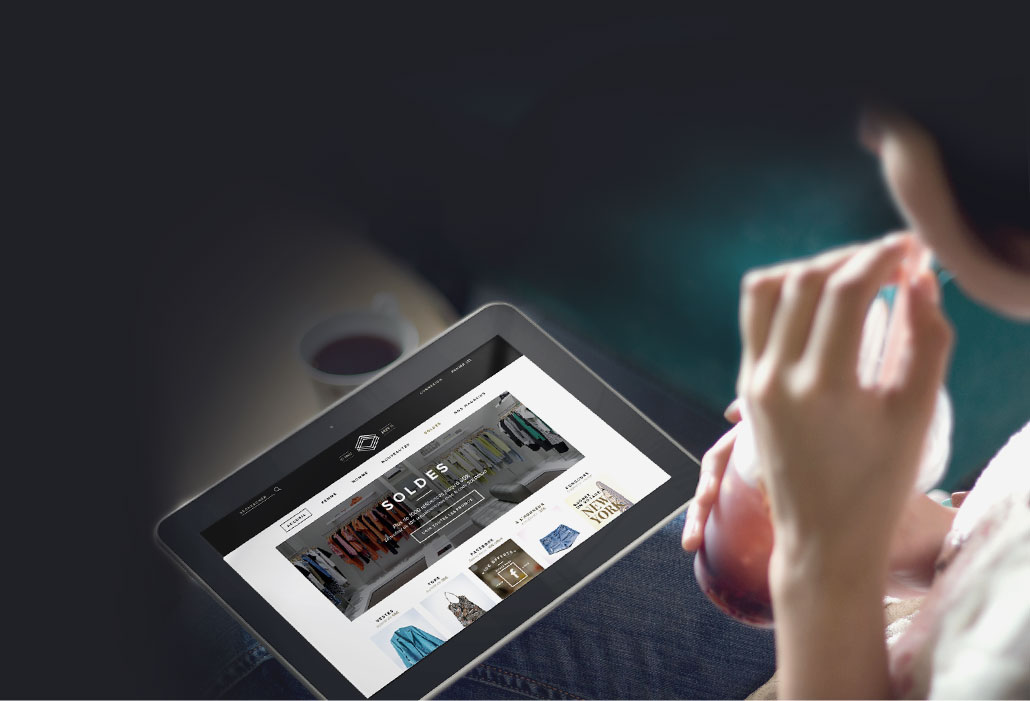
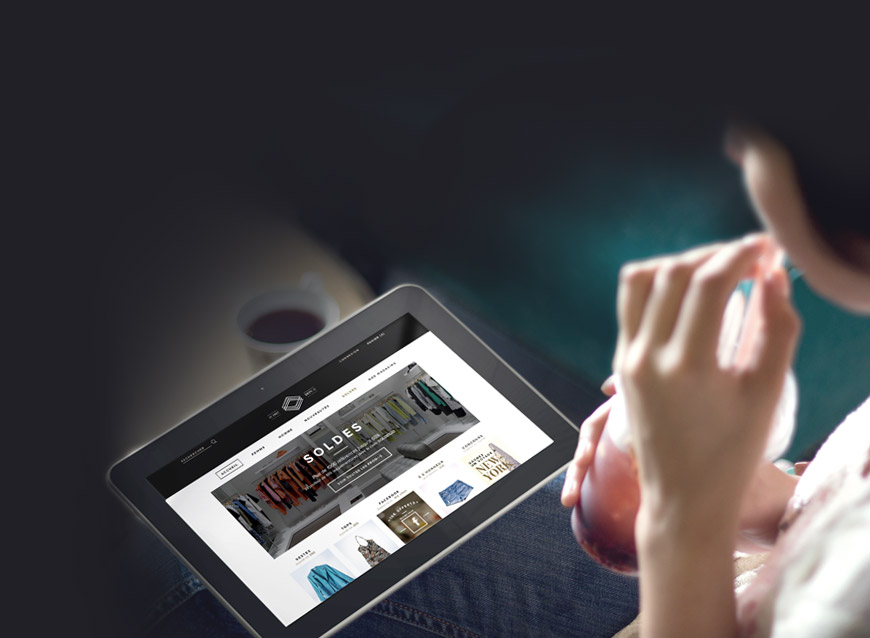
Modifs solution

diff --git a/solution.html b/solution.html
@@ -80,7 +80,7 @@
 
 		<div class="container first content align-center">
 			<h1>Plateforme <nobr>e-commerce</nobr> dédiée aux Retailers</h1>
-			<p><b>Change est une plateforme <nobr>e-commerce</nobr> nativement cross-canal, qui intègre par ailleurs une gestion du merchandising produit souple et intelligente.</b><br/></p>
+			<p><b>Change est une plateforme <nobr>e-commerce</nobr> nativement cross-canal, qui intègre une gestion du merchandising produit et un CMS souple et intelligent.</b><br/></p>
 			<p>Parce que les <b>Retailers</b> seront les grands Leaders du <b>e-commerce</b> de demain, nous voulons vous offrir l’opportunité de vous concentrer exclusivement sur vos métiers, ceux qui ont fait le succès historique de votre marque, plutôt que de perdre du temps sur les projets technologiques.</p>
 			<p>Change vous permet ainsi, et pour la première fois, de capitaliser sur votre réseau de <b>points de vente physiques</b>, ainsi que sur votre <b>merchandising produit</b> et votre contenu de marque, afin d‘en faire vos meilleurs atouts <b>e-commerce</b>.</p>
 		</div>
@@ -106,17 +106,17 @@
 						<li class="icon-reserve-collect"><b class="maj">Reserve &amp; Collect</b> : Service d’e-Réservation permettant de voir la disponibilité d’un produit dans un magasin du réseau, de le réserver en ligne, et enfin, le retirer et le payer en magasin en moins d’une heure.</li>
 						<li class="icon-pay-collect"><b class="maj">Pay &amp; Collect</b> : Service permettant d’acheter un produit en ligne et de le retirer en magasin dans le délai souhaité par le client.</li>
 						<li class="icon-store-locator"><b class="maj">Store Locator</b> : Service permettant de localiser les points de ventes physiques de la marque, notamment ceux les plus proches de l’internaute, et ainsi d’obtenir des informations pratiques (horaires d’ouverture, adresse, numéro de téléphone, etc.) et du contenu de marque.</li>
-						<li class="icon-helpdesk"><b class="maj">Helpdesk</b> : un support en relation permanente avec vos magasins garantissant un traitement préventif des commandes et une assistance en temps réel aux équipes de vente.</li>
+						<li class="icon-helpdesk"><b class="maj">Helpdesk</b> : Un support en relation permanente avec vos magasins garantissant un traitement préventif des commandes et une assistance en temps réel aux équipes de vente.</li>
 					</ul>
 					<h4 class="big-h4">Service store to web</h4>
-					<p class="icon-caisse"><b class="maj">Caisse digitale&nbsp;: </b>Étendez la gamme magasin grâce à la «&nbsp;caisse digitale&nbsp;» et ne ratez plus aucune vente en permettant aux vendeurs en magasin de positionner tous les produits et tous les stocks de l’entreprise (e-commerce, autre magasin, etc.).</p>
+					<p class="icon-caisse"><b class="maj">Caisse digitale&nbsp;: </b>Étendez la gamme magasin grâce à la <i>«&nbsp;caisse digitale&nbsp;»</i> et ne ratez plus aucune vente en permettant aux vendeurs en magasin de positionner tous les produits et tous les stocks de l’entreprise (e-commerce, autre magasin, etc.).</p>
 				</div>
 				<div class="encadre">
 					<div class="bloc-icon-encadre"><span class="container-icon-encadre icon-tshirt"></span></div>
 					<div class="bloc-txt-encadre small-encadre">
 						<h3 class="big-h3 h3-cms">CMS &amp; Merchandising&nbsp;</h3>
 						<p class="big-p">Faites de votre site <nobr>e-commerce</nobr> le meilleur ambassadeur de votre marque et de vos produits</p>
-						<p>La plateforme Change vous permet de présenter à vos clients le <b>bon produit</b>, au <b>bon moment</b>, au <b>bon prix</b>, et au <b>bon endroit</b>.Vous aurez ainsi l’opportunité de faire de votre site <nobr>e-commerce</nobr> un canal de vente efficace, mais encore, <b>un support marketing souple et intelligent</b>, offrant une gestion adaptée du <b>merchandising</b>, des contenus produit et de marque&nbsp;:</p>
+						<p>La plateforme Change vous permet de présenter à vos clients le <b>bon produit</b>, au <b>bon moment</b>, au <b>bon prix</b>, et au <b>bon endroit</b>.Vous aurez ainsi l’opportunité de faire de votre site <nobr>e-commerce</nobr> un canal de vente efficace, mais aussi, <b>un support marketing souple et intelligent</b>, offrant une gestion adaptée du <b>merchandising</b>, des contenus produit et de marque&nbsp;:</p>
 					</div>
 				</div>
 				<ul class="liste-pictos liste-pictos2">
@@ -137,7 +137,7 @@
 						<div class="bloc-icon-encadre fond-bleu"><span class="container-icon-encadre icon-cloud"></span></div>
 						<div class="bloc-txt-encadre">
 							<h3 class="big-h3">Mode SaaS</h3> 
-							<p class="big-p">Activez rapidement votre projet e-commerce, maintenez le à jour et accessible 
+							<p class="big-p">Activez rapidement votre projet <nobr>e-commerce</nobr>, maintenez le à jour <br />et accessible</p>
 						</div>
 					</div>
 					<ul class="liste-pictos liste-pictos-noir">

diff --git a/css/style.css b/css/style.css
@@ -1909,10 +1909,10 @@ footer form #bouton-ok:active {
 #bloc-visu-solution #screen-solution {
   display: block;
   width: 867px;
-  height: 401px;
+  height: 488px;
   background: url('../layoutImg/solution/solution-screen.png') no-repeat center bottom;
   position: absolute;
-  bottom: -80px;
+  bottom: -100px;
   left: 50%;
   margin-left: -439px;
 }
@@ -2218,11 +2218,17 @@ footer form #bouton-ok:active {
   padding-bottom: 100px;
   position: relative;
 }
+.bloc-saas .big-padding-left .encadre {
+  margin-left: 170px;
+}
+.bloc-saas h2 {
+  max-width: 1050px;
+}
 .bloc-saas + footer {
   margin-top: 0;
 }
 .fd-saas {
-  width: 33%;
+  width: 40%;
   height: 540px;
   position: absolute;
   top: 180px;
@@ -2234,7 +2240,7 @@ footer form #bouton-ok:active {
   width: 100%;
   height: 100%;
   position: absolute;
-  top: 180px;
+  top: 280px;
   margin-top: 100%;
   background: url(../layoutImg/solution/nuage1.png) no-repeat right bottom;
 }
@@ -2242,7 +2248,7 @@ footer form #bouton-ok:active {
   width: 100%;
   height: 100%;
   position: absolute;
-  top: 320px;
+  top: 420px;
   margin-top: 100%;
   background: url(../layoutImg/solution/nuage2.png) no-repeat right bottom;
 }
@@ -2541,6 +2547,9 @@ footer form #bouton-ok:active {
   footer .col-right {
     width: 40%;
   }
+  .solution .bloc-noir-fond {
+    background-size: 70% auto;
+  }
   .home .home-ul {
     margin: 60px auto;
   }
@@ -2623,12 +2632,20 @@ footer form #bouton-ok:active {
   .fd-shop .shop {
     margin-top: 125px;
   }
-  .fd-saas {
-    width: 70%;
-    top: 255px;
+  .bloc-saas .big-padding-left .encadre {
+    margin-left: 0;
   }
-  .fd-saas .nuage1 {
-    top: 210px;
+  .fd-saas {
+    width: 100%;
+    margin: 0 auto;
+    right: auto;
+    background-position: 50% 50%;
+    top: 140px;
+  }
+  .fd-saas .nuage1,
+  .fd-saas .nuage2 {
+    left: 0;
+    background-position: 0 bottom;
   }
   .zone-schema {
     width: 87%;
@@ -2772,7 +2789,7 @@ footer form #bouton-ok:active {
     top: 0;
   }
   .fd-saas {
-    width: 80%;
+    top: 200px;
   }
   .fd-saas .nuage1,
   .fd-saas .nuage2 {

diff --git a/less/style.less b/less/style.less
@@ -1830,10 +1830,10 @@ footer{
 	#screen-solution{
 		display: block;
 		width: 867px;
-		height: 401px;
+		height: 488px;
 		background: url('../layoutImg/solution/solution-screen.png') no-repeat center bottom;
 		position: absolute;
-		bottom: -80px;
+		bottom: -100px;
 		left: 50%;
 		margin-left: -439px;
 	}
@@ -2117,6 +2117,12 @@ footer{
 }
 
 .bloc-saas{
+  .big-padding-left .encadre {
+  	margin-left: 170px;
+  }
+  h2 {
+	max-width: 1050px;		
+  }
   padding-bottom: 100px;
   position: relative;
   +footer{
@@ -2125,7 +2131,7 @@ footer{
 }
 
 .fd-saas{
-  width: 33%;
+  width: 40%;
   height: 540px;
   position: absolute;
   top: 180px;
@@ -2136,7 +2142,7 @@ footer{
     width: 100%;
     height: 100%;
     position: absolute;
-    top: 180px;
+    top: 280px;
     margin-top: 100%;
     background: url(../layoutImg/solution/nuage1.png) no-repeat right bottom;
   }
@@ -2144,7 +2150,7 @@ footer{
     width: 100%;
     height: 100%;
     position: absolute;
-    top: 320px;
+    top: 420px;
     margin-top: 100%;
     background: url(../layoutImg/solution/nuage2.png) no-repeat right bottom;
   }
@@ -2489,7 +2495,12 @@ footer{
       width: 40%;
     }
   }
-
+  
+  .solution{
+  	.bloc-noir-fond{
+  	  background-size: 70% auto;
+  	}
+  }
   .home{
     .home-ul{
       margin: 60px auto;
@@ -2580,11 +2591,20 @@ footer{
       margin-top: 125px;
     }
   }
+  .bloc-saas{
+    .big-padding-left .encadre {
+    	margin-left: 0;
+    }
+   }
   .fd-saas {
-    width: 70%;
-    top: 255px;
-    .nuage1{
-      top: 210px;
+    width: 100%;
+    margin: 0 auto;
+    right: auto;
+    background-position: 50% 50%;
+    top: 140px;
+    .nuage1, .nuage2{
+      left: 0;
+      background-position: 0 bottom;
     }
   }
 
@@ -2765,7 +2785,7 @@ footer{
       margin-top: 60px;
     }
   }
-
+	
    .fd-shop{
     .shop{
       margin-top: 0;
@@ -2774,7 +2794,7 @@ footer{
    }
 
    .fd-saas {
-      width: 80%;
+      top: 200px;
       .nuage1, .nuage2{
         display: none;
       }

diff --git a/js/script.js b/js/script.js
@@ -501,15 +501,12 @@ function visuSolution(){
 
 
 $(function(){
-
-
 	detectTouchDevice();
 	setFooter();
 	setSizeBugerMenu();
 	setBurgerMenu();
 	setFirstStrong();
 	//noScroll();
-
 	if($('body').hasClass('home')){
 		indic = $('#containerVid').find('.rejouer');
 		if($("html").hasClass("lt-ie9")){
